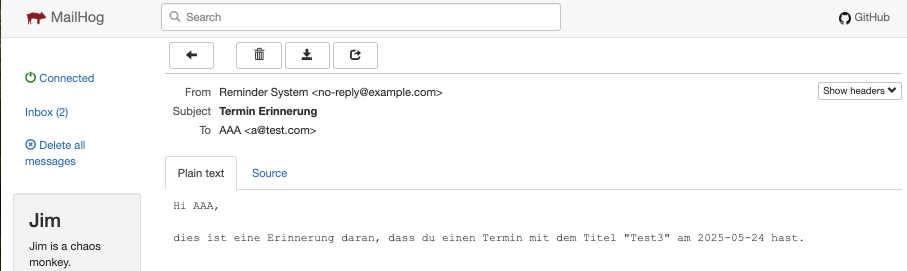
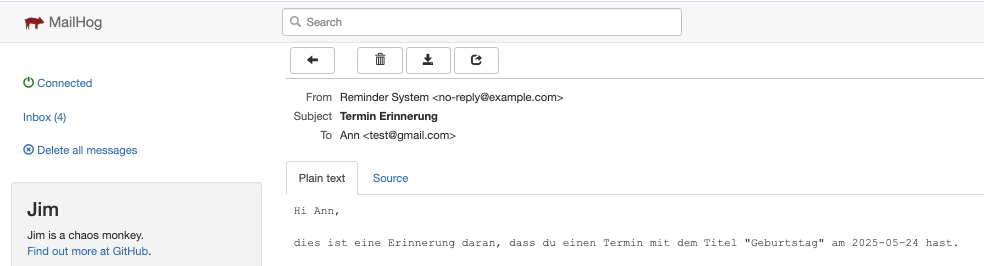
Update Readme file & screenshot

diff --git a/README.md b/README.md
@@ -31,19 +31,19 @@
 ![DB Diagram](Screenshot_drawsql.png)
 
 ### Schritte
-1.  Projektordner vorbereiten
+#### 1.  Projektordner vorbereiten
 - XAMPP installieren und starten.
 - Lege einen neuen Ordner im htdocs-Verzeichnis von XAMPP an, z. B. reminder-calendar.
 ```bash
 cd C:\xampp\htdocs
 ```
 
-2. Repository klonen oder Dateien kopieren
+#### 2. Repository klonen oder Dateien kopieren
 ```bash
-git clone [<REPOSITORY-URL>](https://github.com/anntnt/reminder-calendar.git) reminder-calendar
+git clone https://github.com/anntnt/reminder-calendar.git reminder-calendar
 ```  
 
-3. Backend (Ordner app/ mit PHP & Eloquent ORM) einrichten
+#### 3. Backend (Ordner app/ mit PHP & Eloquent ORM) einrichten
 - In das Verzeichnis app/ wechseln und Dependencies installieren:
 ```bash
 cd reminder-calendar/app
@@ -71,14 +71,14 @@ $ALLOWED_ORIGINS = [
     'https://reminder-calendar.fly.dev' #Ersetze durch die richtige Domain“
 ];
 ```
-4. MySQL-Datenbank mit phpMyAdmin
+#### 4. MySQL-Datenbank mit phpMyAdmin
 - Öffne http://localhost/phpmyadmin
 
 - Erstelle eine neue Datenbank mit dem Namen reminder_calendar
 
 - Führe ggf. das SQL-Skript database/schema.sql aus, um Tabellen zu erstellen
 
-5. Umgebungsvariablen setzen
+#### 5. Umgebungsvariablen setzen
 - Erstelle eine .env-Datei im Verzeichnis react-app/, ersetze durch die richtigen daten
 ```bash
 DB_HOST=127.0.0.1
@@ -88,7 +88,7 @@ DB_USER=xxxxx
 DB_PASS=xxxxx
 
 ```
-6. Frontend (react-app/) einrichten
+#### 6. Frontend (react-app/) einrichten
 - Wechsle in das Verzeichnis react-app/:
 ```bash
 cd ../react-app
@@ -103,7 +103,7 @@ npm run dev
 ```
 React läuft standardmäßig unter http://localhost:3000
 
-7. Erinnerungs-Skript ausführen
+#### 7. Erinnerungs-Skript ausführen
 Das Projekt enthält ein PHP-Skript zur automatischen Erinnerungsversendung per E-Mail:
 ```bash
 php app/send_reminders.php
@@ -111,7 +111,7 @@ php app/send_reminders.php
 **Automatisierung (Cronjob)**
 Um tägliche Erinnerungen automatisch zu versenden, kann man einen Cronjob einrichten
 
-9. Testmails mit Mailhog anzeigen
+#### 8. Testmails mit Mailhog anzeigen
 
 Falls man Mailhog zur lokalen Mail-Entwicklung verwendet:
 
@@ -133,7 +133,7 @@ MAIL_FROM_NAME="Reminder System"
 ```
 ![Mailhog](Screenshot_mailhog.png)
 
-1.  Zukünftige Erweiterungen
+## Zukünftige Erweiterungen
 - Möglichkeit zum Ändern des Passworts
 - Adresse hinzufügen und über Google Maps anzeigen
 - Integration mit Google Kalender oder Outlook
